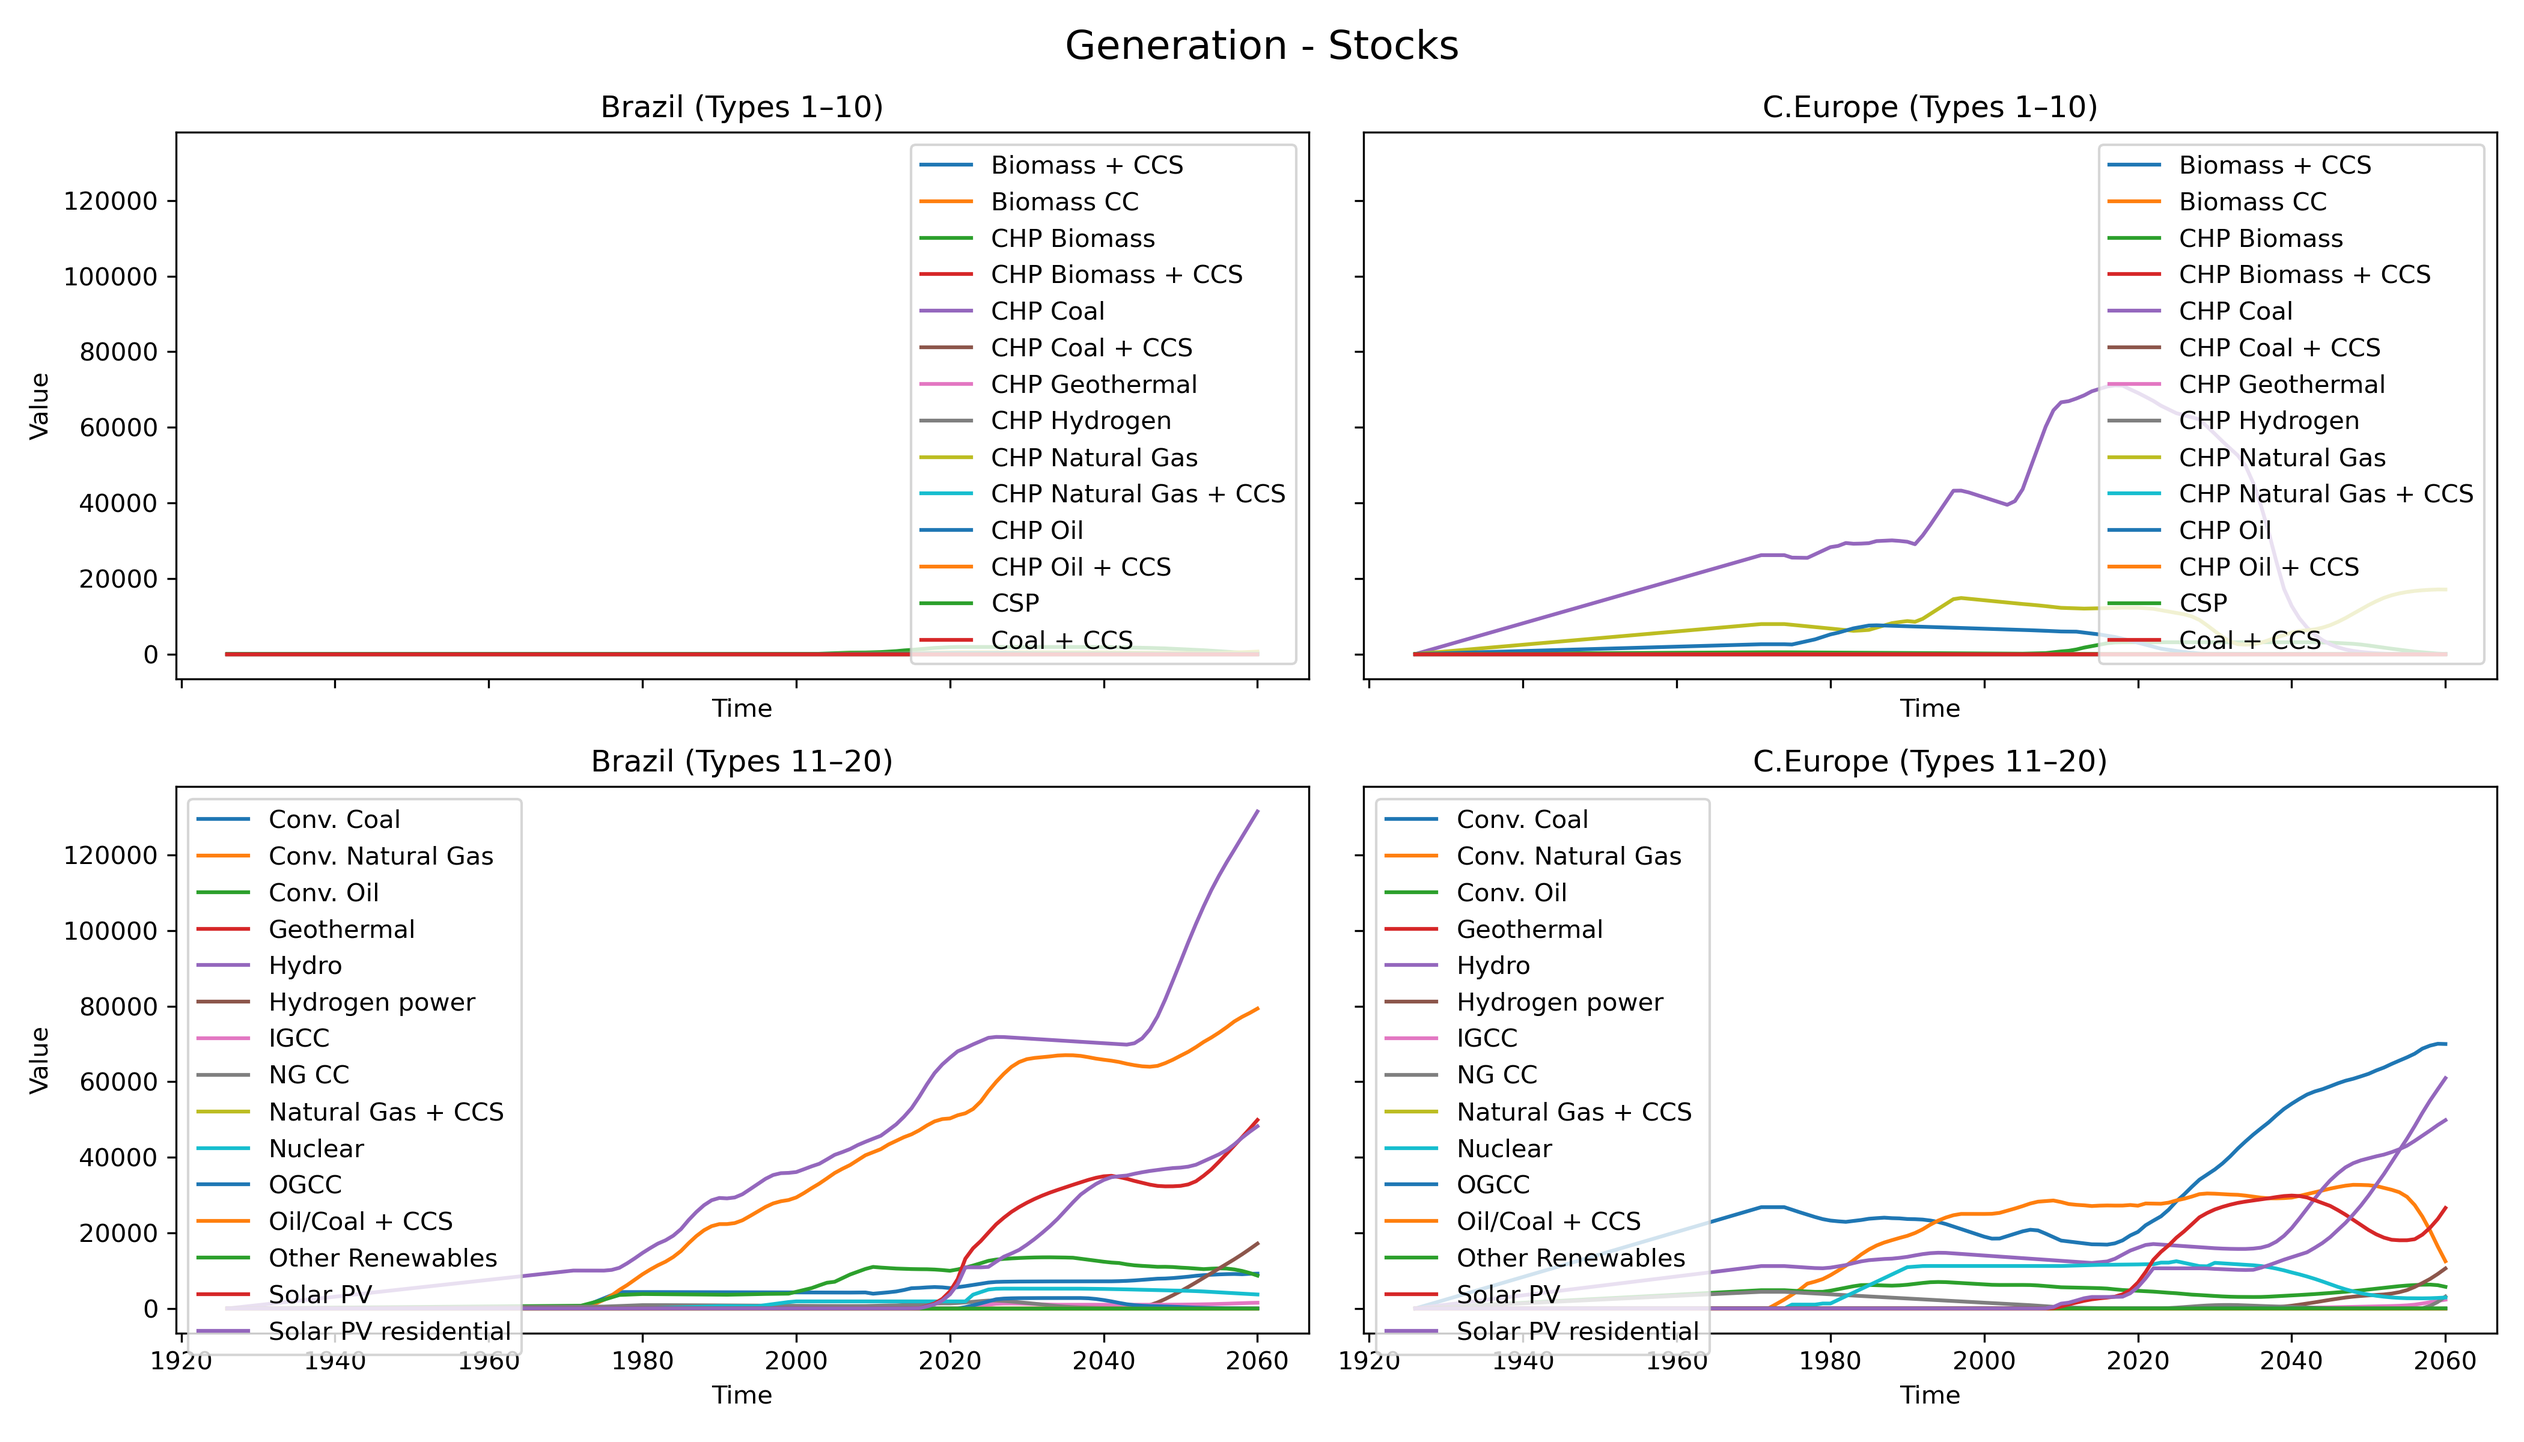
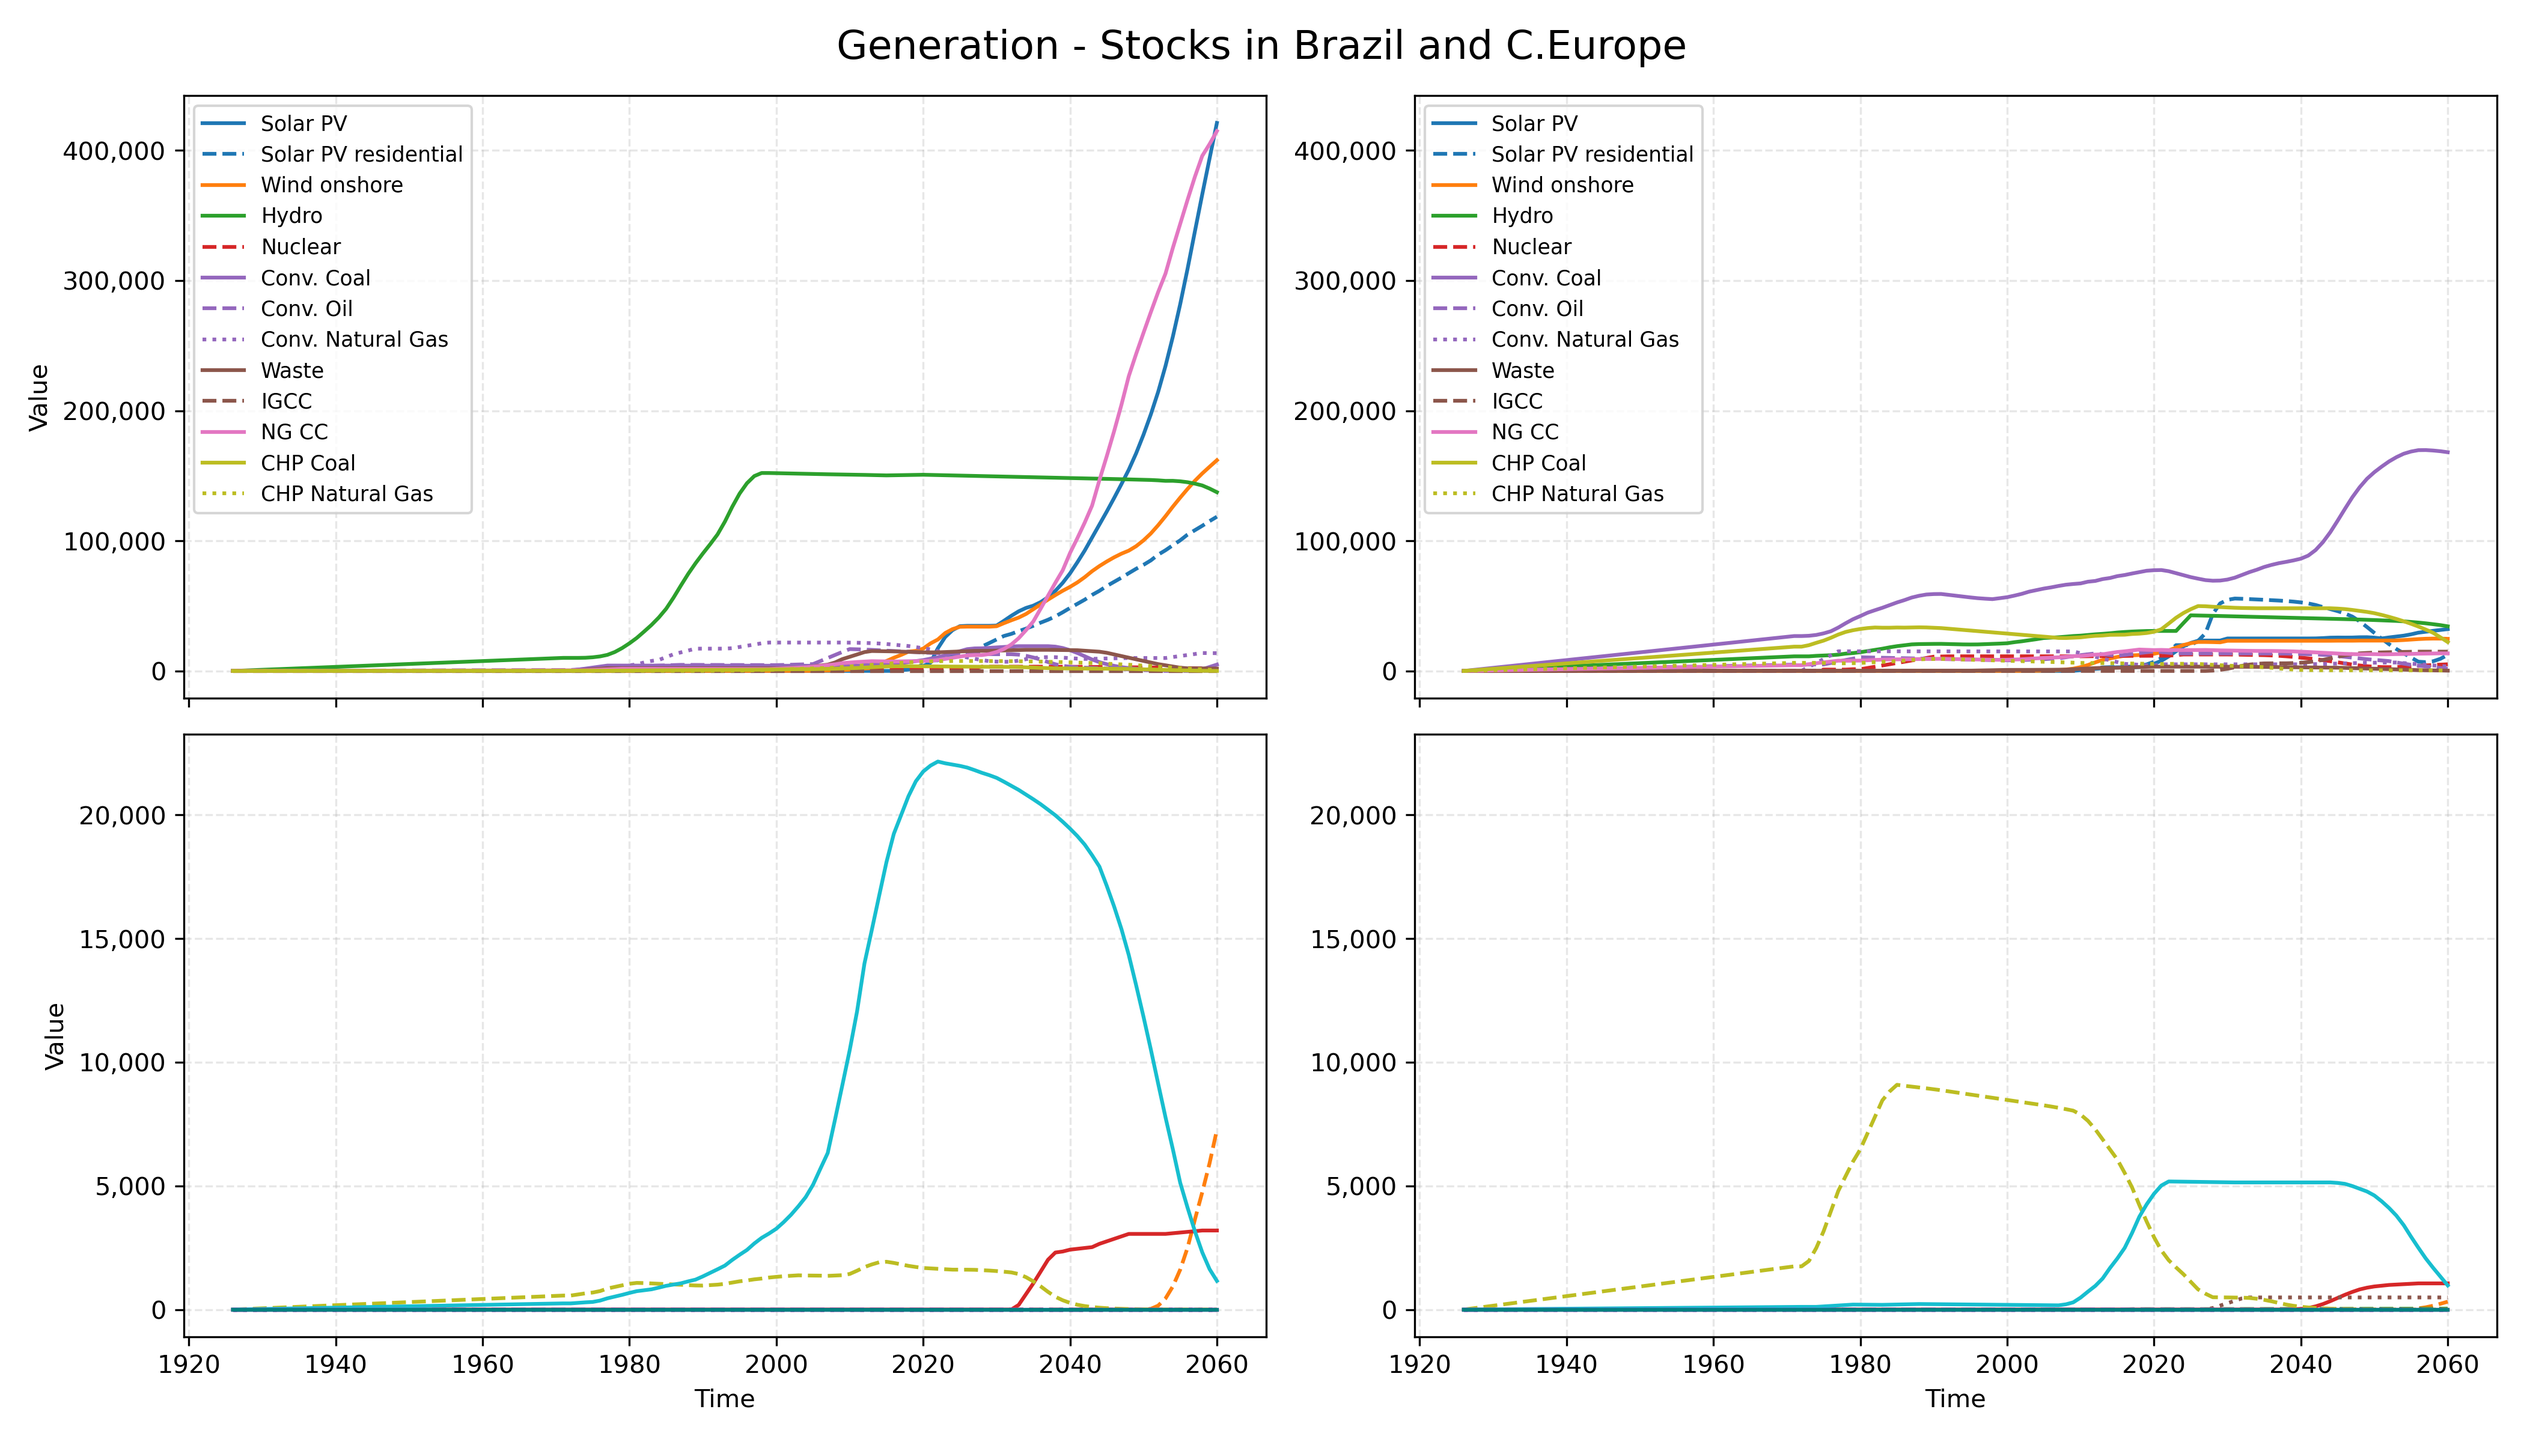
Added a color dict for gencap to constants, 1 figure to preprocessing

diff --git a/imagematerials/electricity/preprocessing.py b/imagematerials/electricity/preprocessing.py
@@ -9,6 +9,7 @@ import pint
 import xarray as xr
 from collections import defaultdict
 import matplotlib.pyplot as plt
+from matplotlib.ticker import StrMethodFormatter
 
 # path_current = Path(__file__).resolve().parent # absolute path of file
 # path_base = path_current.parent.parent # base path of the project -> image-materials
@@ -320,40 +321,157 @@ types = [str(t) for t in dim_coords["Type"]]
 ###########################################################################################################
 #%%% 1.6) Visualize Stocks
 
+# Generation technologies
+technologies = [
+    'Solar PV', 'Solar PV residential', 'CSP', 'Wind onshore', 'Wind offshore', 'Wave', 'Hydro', 
+    'Other Renewables', 'Geothermal', 'Hydrogen power', 'Nuclear', '<EMPTY>', 'Conv. Coal', 
+    'Conv. Oil', 'Conv. Natural Gas', 'Waste', 'IGCC', 'OGCC', 'NG CC', 'Biomass CC', 
+    'Coal + CCS', 'Oil/Coal + CCS', 'Natural Gas + CCS', 'Biomass + CCS', 'CHP Coal', 
+    'CHP Oil', 'CHP Natural Gas', 'CHP Biomass', 'CHP Coal + CCS', 'CHP Oil + CCS', 
+    'CHP Natural Gas + CCS', 'CHP Biomass + CCS', 'CHP Geothermal', 'CHP Hydrogen'
+]
+# Define color and linestyle pools
+colors = list(plt.get_cmap('tab10').colors)  # 20 distinct colors
+# Add two new distinct colors (example: magenta and teal)
+colors += [(1.0, 0.0, 1.0),  # magenta
+           (0.0, 0.5, 0.5)]  # teal
+linestyles = ['-', '--', ':'] #'-.'
+# Create a cycle of (color, linestyle) combinations
+style_combinations = list(itertools.product(colors, linestyles))
+assert len(technologies) <= len(style_combinations), "Not enough unique combinations for all technologies."
+# Map technologies to (color, linestyle)
+dict_gentech_styles = {tech: style_combinations[i] for i, tech in enumerate(technologies)}
+
 path_test_plots = Path(path_base, "imagematerials", "electricity", "out_test", "Figures")
 
+
+
+# stocks in main_model_factory.stocks -------------------------------------------------
 da_stocks = main_model_factory.stocks.copy()
 
 regions = da_stocks.Region.values[:2]  # First 2 regions
-types_top = da_stocks.Type.values[1:15]   # Types 1–10
-types_bottom = da_stocks.Type.values[15:30]  # Types 11–20
+# types_top = da_stocks.Type.values[1:15]   # Types 1–10
+# types_bottom = da_stocks.Type.values[15:30]  # Types 11–20
+techs_upper = [col for col in da_stocks.columns if da_stocks[col].max() > threshold] #gcap.columns[15:30]
+techs_lower = [col for col in da_stocks.columns if da_stocks[col].max() <= threshold] #gcap.columns[:15]
 
-fig, axes = plt.subplots(nrows=2, ncols=2, figsize=(14, 8), sharex=True, sharey=True)
+
+
+fig, axes = plt.subplots(nrows=2, ncols=2, figsize=(14, 8), sharex=True)
+axes[0, 1].sharey(axes[0, 0])
+axes[1, 1].sharey(axes[1, 0])
 
 for i, region in enumerate(regions):
-    # Top row: Types 1–10
-    for t in types_top:
-        da_stocks.sel(Type=t, Region=region).plot(ax=axes[0, i], label=t)
-    axes[0, i].set_title(f"{region} (Types 1–10)")
-    axes[0, i].legend()
+    # Top row: Types 1–15
+    for t in techs_upper:
+        data = da_stocks.sel(Type=t, Region=region)
+        color, ls = dict_gentech_styles.get(t, ('black', '-'))  # default style fallback
+        axes[0, i].plot(data.Time, data.values, label=t, color=color, linestyle=ls)
+    # axes[0, i].set_title(f"{region} (Types 1–15)")
+    axes[0, i].grid(alpha=0.3, linestyle='--')
 
-    # Bottom row: Types 11–20
-    for t in types_bottom:
-        da_stocks.sel(Type=t, Region=region).plot(ax=axes[1, i], label=t)
-    axes[1, i].set_title(f"{region} (Types 11–20)")
+    # Bottom row: Types 16–30
+    for t in techs_lower:
+        data = da_stocks.sel(Type=t, Region=region)
+        color, ls = dict_gentech_styles.get(t, ('black', '-'))
+        axes[1, i].plot(data.Time, data.values, label=t, color=color, linestyle=ls)
+    # axes[1, i].set_title(f"{region} (Types 16–30)")
     axes[1, i].set_xlabel("Time")
-    axes[1, i].legend(loc ='upper left')
+    axes[1, i].grid(alpha=0.3, linestyle='--')
+    # axes[1, i].legend(fontsize="small", loc='upper left')
 
-# Label only left side with y-axis label
+# Y-axis labels only on left
 axes[0, 0].set_ylabel("Value")
 axes[1, 0].set_ylabel("Value")
-plt.suptitle("Generation - Stocks", fontsize=16)
+for ax in axes.flat: # change y axis ticks from 100000 to 100,000
+    ax.yaxis.set_major_formatter(StrMethodFormatter('{x:,.0f}'))
+axes[0, 0].legend(fontsize='small', ncol=2, loc='upper left')
+axes[1, 0].legend(fontsize='small', ncol=2, loc='upper left')
 
+plt.suptitle("Generation - Stocks in Brazil and C.Europe", fontsize=16)
 plt.tight_layout()
 fig.savefig(path_test_plots / "Gen_stocks_Brazil-CEurope.png", dpi=300)
 plt.show()
 
 
+
+# stocks from TIMER --------------------------------------------------
+
+# 2 COUNTRIES
+countries = ['Brazil','C.Europe']
+threshold = 100_000
+techs_upper = [col for col in gcap.columns if gcap[col].max() > threshold] #gcap.columns[15:30]
+techs_lower = [col for col in gcap.columns if gcap[col].max() <= threshold] #gcap.columns[:15]
+
+fig, axes = plt.subplots(nrows=2, ncols=2, figsize=(14, 8), sharex=True)
+axes[0, 1].sharey(axes[0, 0])
+axes[1, 1].sharey(axes[1, 0])
+
+for i, country in enumerate(countries):
+    df = gcap[gcap.index.get_level_values(1) == country].copy()
+    df.index = df.index.droplevel(1)
+
+    # Top row: techs 15–30
+    for tech in techs_upper:
+        color, ls = dict_gentech_styles[tech]
+        axes[0, i].plot(df.index, df[tech], label=tech, color=color, linestyle=ls)
+    # axes[0, i].set_title(f"{country} (Technologies 16–30)")
+    axes[0, i].grid(alpha=0.3, linestyle='--')
+
+    # Bottom row: techs 0–14
+    for tech in techs_lower:
+        color, ls = dict_gentech_styles[tech]
+        axes[1, i].plot(df.index, df[tech], label=tech, color=color, linestyle=ls)
+    axes[1, i].set_xlabel('Year')
+    axes[1, i].grid(alpha=0.3, linestyle='--')
+    
+
+# Add Y-axis labels only on left side
+axes[0, 0].set_ylabel('Value')
+axes[1, 0].set_ylabel('Value')
+for ax in axes.flat: # change y axis ticks from 100000 to 100,000
+    ax.yaxis.set_major_formatter(StrMethodFormatter('{x:,.0f}'))
+axes[0, 0].legend(fontsize='small', ncol=2, loc='upper left')
+axes[1, 0].legend(fontsize='small', ncol=2, loc='upper left')
+
+plt.suptitle(f"Generation - Stocks in {countries[0]}_{countries[1]} (TIMER)", fontsize=16)
+plt.tight_layout()
+fig.savefig(path_test_plots / f"TIMER_Gen_stocks_{countries[0]}-{countries[1]}.png", dpi=300)
+plt.show()
+
+
+
+
+# 1 COUNTRY
+country = 'C.Europe'
+df = gcap[gcap.index.get_level_values(1) == country]
+df.index = df.index.droplevel(1)
+
+# Split columns into two groups
+techs_upper = df.columns[15:30]
+techs_lower = df.columns[:15]
+
+# Create subplots
+fig, (ax1, ax2) = plt.subplots(2, 1, figsize=(12, 8), sharex=True)
+
+for tech in techs_upper:
+    color, ls = dict_gentech_styles[tech]
+    df[tech].plot(ax=ax1, label=tech, color=color, linestyle=ls)
+ax1.set_ylabel('Value')
+ax1.legend(ncol=2, fontsize='small', loc='upper left')
+
+# Lower panel: tech 16–30
+for tech in techs_lower:
+    color, ls = dict_gentech_styles[tech]
+    df[tech].plot(ax=ax2, label=tech, color=color, linestyle=ls)
+ax2.set_xlabel('Year')
+ax2.set_ylabel('Value')
+ax2.legend(ncol=2, fontsize='small', loc='upper left')
+
+plt.tight_layout()
+plt.suptitle(f"Generation - Stocks in {country} (TIMER)", fontsize=16)
+fig.savefig(path_test_plots / f"TIMER_Gen_stocks_{country}.png", dpi=300)
+plt.show()
 
 ###########################################################################################################
 #%% Visualize Inflow Materials

diff --git a/imagematerials/electricity/constants.py b/imagematerials/electricity/constants.py
@@ -2,6 +2,7 @@
 from pathlib import Path
 import os
 import pint
+import itertools
 
 ureg = pint.UnitRegistry(force_ndarray_like=True)
 
@@ -71,5 +72,28 @@ PHEV_CAPACITY_CURRENT = 11.2    #kWh current battery capacity of plugin electric
 # TECH_STORAGE = ?
 
 PHS_KG_PERKWH = 26.8   # kg per kWh storage capacity (as weight addition to existing hydro plants to make them pumped) 
+
+
+
+
+# Visualization related ---------------------------------------------
+
+# Generation technologies
+technologies = [
+    'Solar PV', 'Solar PV residential', 'CSP', 'Wind onshore', 'Wind offshore', 'Wave', 'Hydro', 
+    'Other Renewables', 'Geothermal', 'Hydrogen power', 'Nuclear', '<EMPTY>', 'Conv. Coal', 
+    'Conv. Oil', 'Conv. Natural Gas', 'Waste', 'IGCC', 'OGCC', 'NG CC', 'Biomass CC', 
+    'Coal + CCS', 'Oil/Coal + CCS', 'Natural Gas + CCS', 'Biomass + CCS', 'CHP Coal', 
+    'CHP Oil', 'CHP Natural Gas', 'CHP Biomass', 'CHP Coal + CCS', 'CHP Oil + CCS', 
+    'CHP Natural Gas + CCS', 'CHP Biomass + CCS', 'CHP Geothermal', 'CHP Hydrogen'
+]
+# Define color and linestyle pools
+colors = plt.get_cmap('tab20').colors  # 20 distinct colors
+linestyles = ['-', '--', ':'] #'-.'
+# Create a cycle of (color, linestyle) combinations
+style_combinations = list(itertools.product(colors, linestyles))
+assert len(technologies) <= len(style_combinations), "Not enough unique combinations for all technologies."
+# Map technologies to (color, linestyle)
+dict_gentech_styles = {tech: style_combinations[i] for i, tech in enumerate(technologies)}
 
 

diff --git a/imagematerials/concepts.py b/imagematerials/concepts.py
@@ -245,10 +245,14 @@ def create_electricity_graph():
                         "Coal + CCS", "Oil/Coal + CCS", "Natural Gas + CCS", "Biomass + CCS",
                         "CHP Coal", "CHP Oil", "CHP Natural Gas", "CHP Biomass","CHP Geothermal", "CHP Hydrogen",
                         "CHP Coal + CCS", "CHP Oil + CCS", "CHP Natural Gas + CCS", "CHP Biomass + CCS"]
+    # generation_types_renew = ["Solar PV", "Solar PV residential", "CSP", "Wind onshore", "Wind offshore", 
+    #                     "Wave", "Other Renewables", "Geothermal", "Biomass CC","Biomass + CCS",
+    #                     "CHP Biomass","CHP Geothermal", "CHP Biomass + CCS"] # "Hydro", "CHP Hydrogen",
     # generation_subtypes = ["c-Si", "a-Si", "CIGS", "CdTe", "Perovskite", 
     #                        "Fresnel Reflector", "Central Receiver", "Parabolic Trough", "Parabolic Dish",
     #                        "Geared - High Speed", "Geared - Medium speed", "Direct Drive"]
-    # generation_supertypes = ["Renewables", "Non-Renewables"]
+    # generation_supertypes = ["Renewables", "Fossil", "Other"]
+    # generation_supertypes = ["Renewables", "Fossil", "Fossil + CCS"]
 
     electricity_knowledge_graph = KnowledgeGraph(Node("Electricity"))
     electricity_knowledge_graph.add(Node("Generation", inherits_from="Electricity"))
